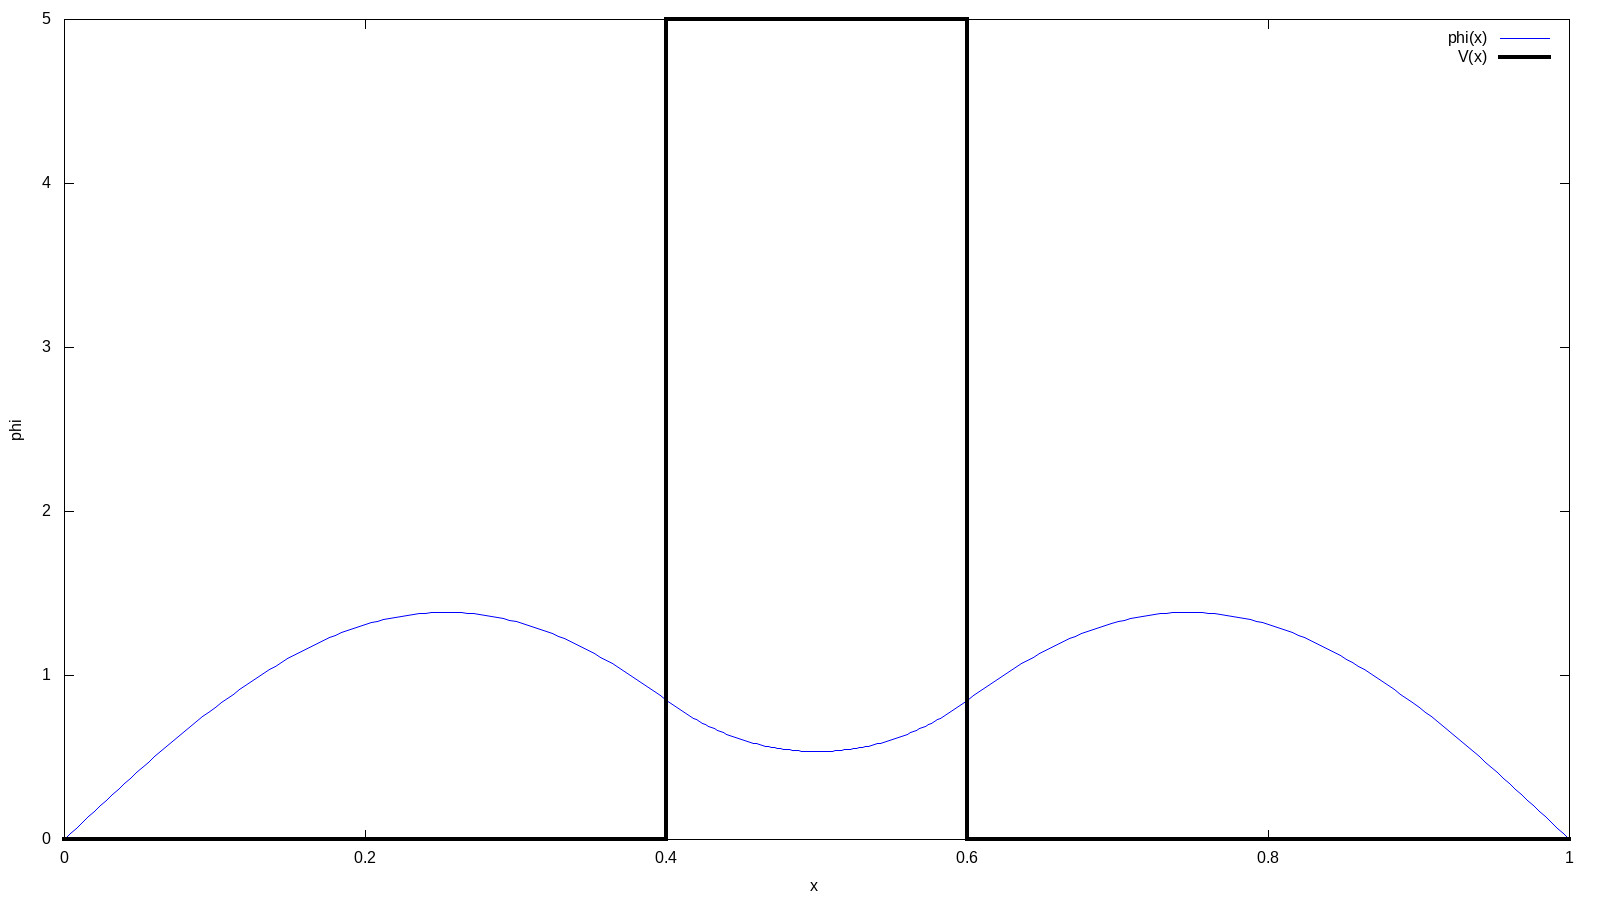
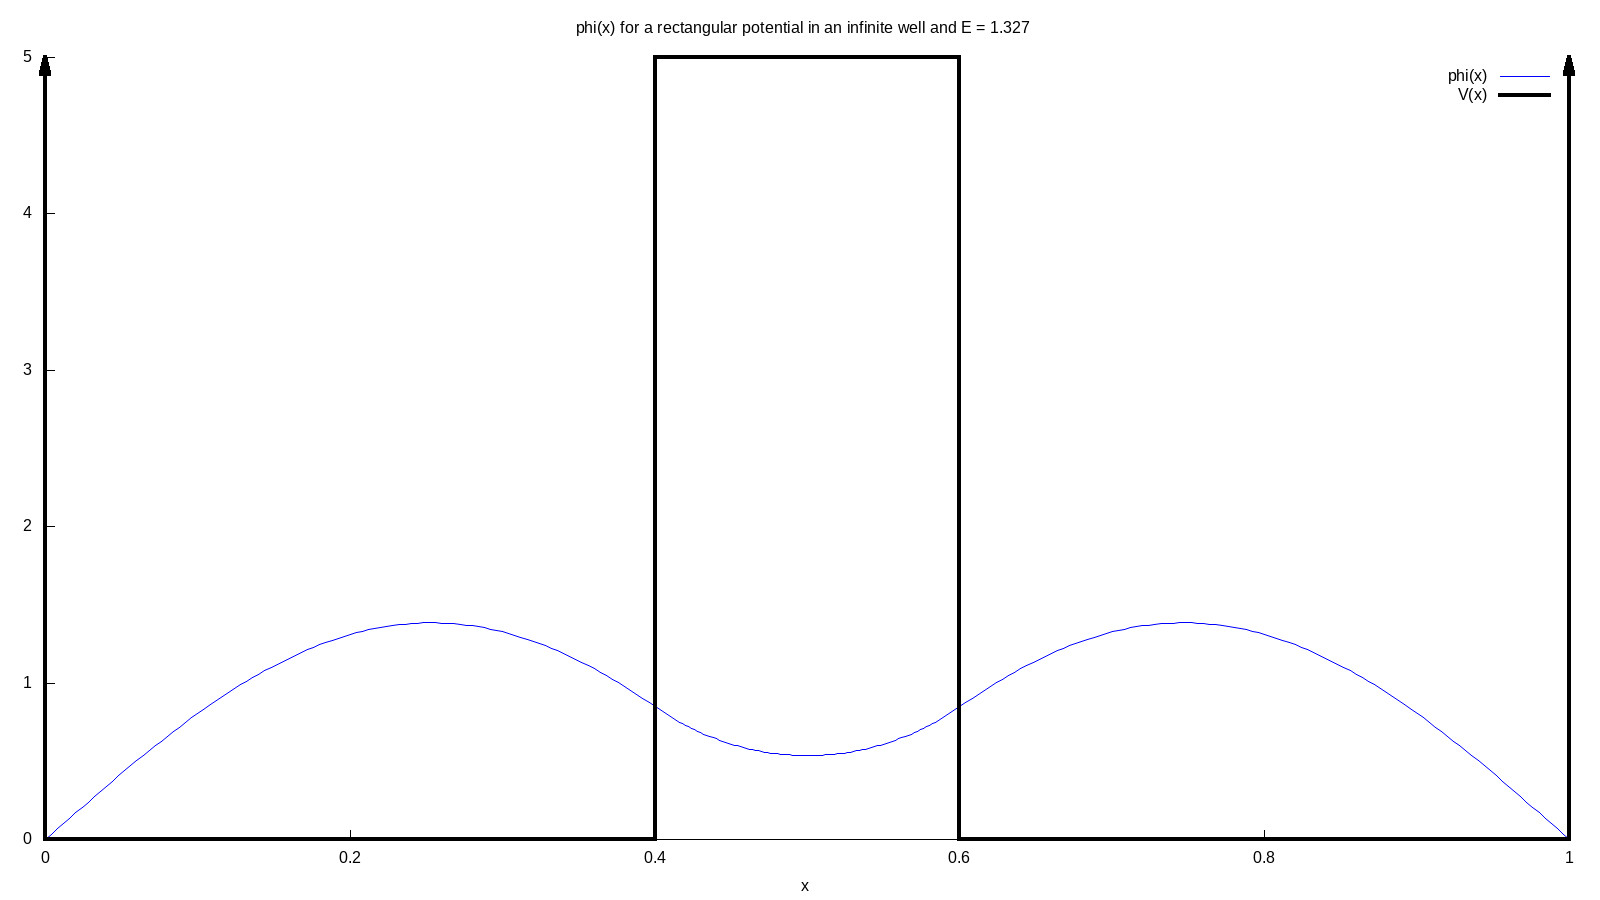
graph improvements - Added a title with the energy and the type of potential - The "walls" of the infinite well at x=0 & x=L are now visible

diff --git a/src/main.c b/src/main.c
@@ -1,5 +1,6 @@
 #include <stdio.h>
 #include <stdlib.h>
+#include <string.h>
 #include "../include/schrodinger_functions.h"
 #include "../include/types_and_constants.h"
 
@@ -35,6 +36,8 @@ int main(){
 	double hbar = 0.65625;
 	double energy = hbar*hbar*4*M_PI*M_PI / (8*m*l*l); // ~=0.34 according to the formula : En = h^2 * n^2 / (8*m*l^2) 		So to get the n-th energy level we can just multiply by n^2 this value
 	double alpha = 2*m / (hbar*hbar); // we have (d^2)(phi(x))/d(x^2) + alpha phi(x) = 0
+	int energyLevel=1;
+	char potentialTypeInText[50];
 	potentialParams potential;
 	schrodingerParameters params;
 
@@ -52,6 +55,7 @@ int main(){
 	potential.type=0;
 	potential.v0=1.0;
 	
+
 	printf("What case do you want to view\n0: V(x)=0 everywhere\n1: V(x) is a step\n2: V(x) is rectangular\nANSWER: "); scanf("%d", &(potential.type));
 
 	if(potential.type<0 || potential.type>2){
@@ -67,12 +71,39 @@ int main(){
 		else
 			potential.b=0.6;
 	}
+	else{
+		printf("Give the energy level that you want (n>0 and n is an integer): n = "); scanf("%d", &energyLevel);
+		if(energyLevel>0)
+			params.energy*= (energyLevel*energyLevel);
+		else{
+			fprintf(stderr, "ERROR: You need to provide a strictly positive integer\n");
+			exit(EXIT_FAILURE);
+		}
+	}
+
+	switch (potential.type)
+	{
+		case 0:
+			strcpy(potentialTypeInText, "null potential in an infinite well");
+			break;
+		case 1:
+			strcpy(potentialTypeInText, "step potential in an infinite well");
+			break;
+		case 2:
+			strcpy(potentialTypeInText, "rectangular potential in an infinite well");
+			break;
+		default:
+			fprintf(stderr, "ERROR: incorrect potential type in main()\n");
+			exit(EXIT_FAILURE);
+	}
 
 	params.potential=potential;
 	
-	
-	solveSchrodinger(params);
+	solveSchrodinger(&params);
 
+	dataFile = fopen("data/phi.dat", "a");
+	fprintf(dataFile, "\npotential_type & energy:\n%s\n%.3lf", potentialTypeInText, params.energy);
+	fclose(dataFile);
 
 	return 0;
 }

diff --git a/src/schrodingerFunctions.c b/src/schrodingerFunctions.c
@@ -254,31 +254,31 @@ void savePotential(schrodingerParameters params){
 }
 
 //Solve Schrodinger's equation with the given parameters
-void solveSchrodinger(schrodingerParameters params){
-	if(params.potential.type==0){
+void solveSchrodinger(schrodingerParameters* params){
+	if(params->potential.type==0){
 		double z;
-		z=findRoot(params);
-		params.doDraw=1;
-		if(solveODE(z, params, NULL) == GSL_SUCCESS)
+		z=findRoot(*params);
+		params->doDraw=1;
+		if(solveODE(z, *params, NULL) == GSL_SUCCESS)
 			printf("SUCCESS: the equation was solved\n");
 	}
-	else if(params.potential.type==1 || params.potential.type==2){
+	else if(params->potential.type==1 || params->potential.type==2){
 		double z=0.0;
 		double y[3]={0.0, 0.0, 0.0};
 		double roots[2] = {0.0, 0.0};
 
-		findMultipleRoots(params, roots);
-		params.energy=roots[0];
-		params.doDraw=1;
-		for(int i_domain=0; i_domain<params.potential.type+1; i_domain++){
-			params.currentDomain=i_domain;
-			if(solveODE(roots[1], params, y) != GSL_SUCCESS){
+		findMultipleRoots(*params, roots);
+		params->energy=roots[0];
+		params->doDraw=1;
+		for(int i_domain=0; i_domain<params->potential.type+1; i_domain++){
+			params->currentDomain=i_domain;
+			if(solveODE(roots[1], *params, y) != GSL_SUCCESS){
 				fprintf(stderr, "ERROR : in solveSchrodinger(), the ODE n°%d could not be solved\n", i_domain);
 				exit(EXIT_FAILURE);
 			}
-			params.prevDomainY0=y[0];
-			params.prevDomainY1=y[1];
-			params.prevDomainY2=y[2];
+			params->prevDomainY0=y[0];
+			params->prevDomainY1=y[1];
+			params->prevDomainY2=y[2];
 		}
 		printf("SUCCESS: the equation was solved\n");
 	
@@ -287,6 +287,6 @@ void solveSchrodinger(schrodingerParameters params){
 		fprintf(stderr, "ERROR : in solveSchrodinger(), parameters are incorrect\n");
 		exit(EXIT_FAILURE);
 	}
-	savePotential(params);
+	savePotential(*params);
 
 }

diff --git a/include/schrodinger_functions.h b/include/schrodinger_functions.h
@@ -17,6 +17,6 @@ double findRoot(schrodingerParameters params);
 int solveODEMultipleDomains(const gsl_vector* input, void* params, gsl_vector* f);
 void findMultipleRoots(schrodingerParameters params, double roots[2]);
 void savePotential(schrodingerParameters params);
-void solveSchrodinger(schrodingerParameters params);
+void solveSchrodinger(schrodingerParameters* params);
 
 #endif
